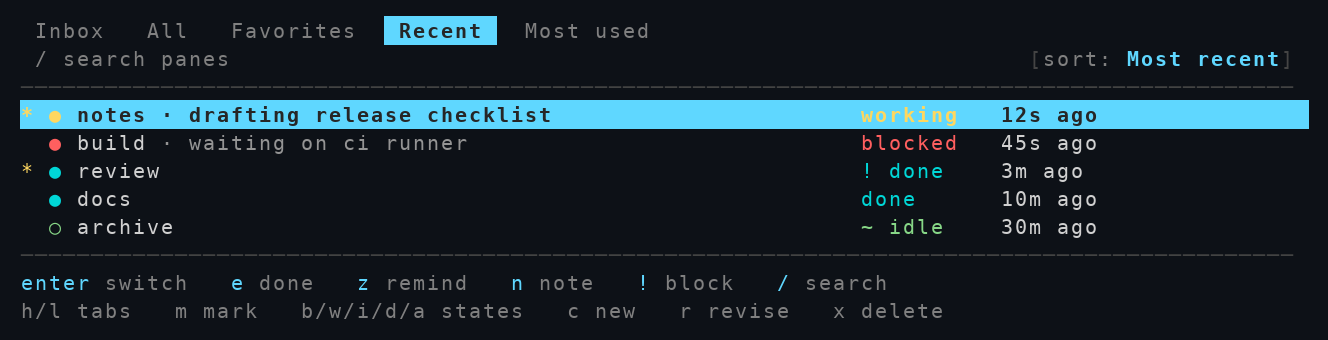
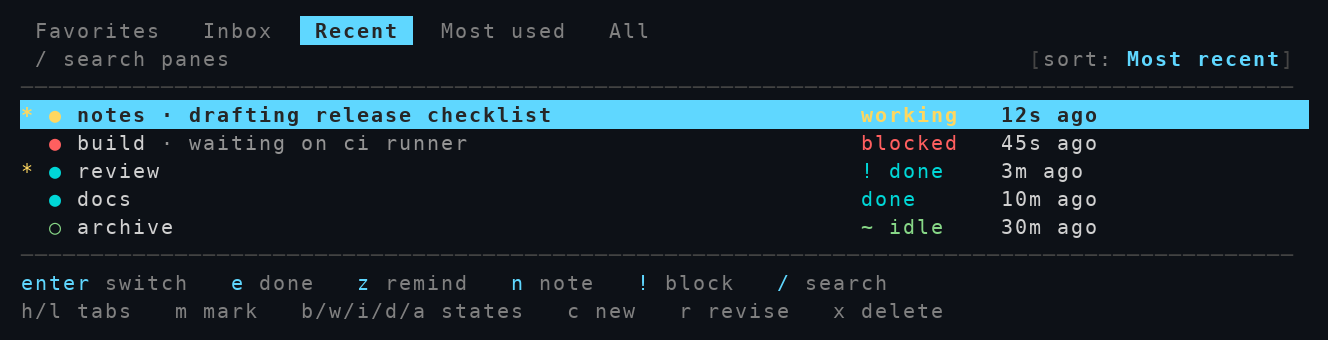
feat: order tabs Favorites, Inbox, Recent, Most used, All

Changed region(s): [[0.0309, 0.0294, 0.494, 0.1471]]

diff --git a/tab_test.go b/tab_test.go
@@ -79,13 +79,10 @@ func TestInboxTriageRemindersNotesAndManualBlock(t *testing.T) {
 			"p-manual": {Visits: 1, Last: now - 400, Done: true, DoneAt: now - 400, DoneState: "idle", ManualBlocked: true},
 		},
 	}
-	for _, name := range viewNames(st) {
-		if name == "Map" {
-			t.Fatal("Map tab should be retired")
-		}
-	}
-	if viewNames(st)[openTab(st)] != "Inbox" {
-		t.Fatalf("default open tab = %q, want Inbox", viewNames(st)[openTab(st)])
+	gotOrder := strings.Join(viewNames(st), ",")
+	wantOrder := "Favorites,Inbox,Recent,Most used,All"
+	if gotOrder != wantOrder {
+		t.Fatalf("tab order = %q, want %q", gotOrder, wantOrder)
 	}
 	snap := &snapshot{
 		Tabs: []tabRec{
@@ -119,7 +116,7 @@ func TestInboxTriageRemindersNotesAndManualBlock(t *testing.T) {
 	}
 
 	// Sticky note is rendered inline and searchable via filterRows; Inbox has no sort pill.
-	plain := stripANSI(renderFrame(inbox, 0, "", "", false, 100, 16, viewNames(st), 0, "both", "", activeSortLabel(st, view{Kind: "inbox"}, sortDefault)))
+	plain := stripANSI(renderFrame(inbox, 0, "", "", false, 100, 16, viewNames(st), 1, "both", "", activeSortLabel(st, view{Kind: "inbox"}, sortDefault)))
 	if strings.Contains(plain, "[sort:") {
 		t.Fatalf("inbox should not show a sort pill:\n%s", plain)
 	}
@@ -153,7 +150,7 @@ func TestInboxTriageRemindersNotesAndManualBlock(t *testing.T) {
 
 	// Snoozed pane renders ~ in All tab, and All shows [sort: Most recent].
 	all := rowsFor(snap, st, view{Kind: "all"}, sortDefault)
-	allPlain := stripANSI(renderFrame(all, 0, "", "", false, 100, 18, viewNames(st), 1, "both", ""))
+	allPlain := stripANSI(renderFrame(all, 0, "", "", false, 100, 18, viewNames(st), 4, "both", ""))
 	if !strings.Contains(allPlain, "~ working") || !strings.Contains(allPlain, "[sort: Most recent]") {
 		t.Fatalf("expected ~ working badge and [sort: Most recent] pill in All:\n%s", allPlain)
 	}
@@ -211,7 +208,7 @@ func TestCustomTabsDoNotPinFavorites(t *testing.T) {
 	if len(all) != 26 {
 		t.Fatalf("all len = %d", len(all))
 	}
-	allFrame := renderFrame(all, 20, "", "", false, 90, 14, viewNames(st), 1, "both", "", activeSortLabel(st, view{Kind: "all"}, sortDefault))
+	allFrame := renderFrame(all, 20, "", "", false, 90, 14, viewNames(st), 4, "both", "", activeSortLabel(st, view{Kind: "all"}, sortDefault))
 	if strings.Count(allFrame, "\n") >= 14 {
 		t.Fatalf("All tab emitted %d newlines for height 14, which scrolls the tab bar off", strings.Count(allFrame, "\n"))
 	}

diff --git a/main.go b/main.go
@@ -251,10 +251,11 @@ func defaultTabs() []customTab {
 }
 
 func views(st *store) []view {
-	out := []view{{Kind: "inbox"}, {Kind: "all"}, {Kind: "favorites"}}
+	out := []view{{Kind: "favorites"}, {Kind: "inbox"}}
 	for i := range st.Tabs {
 		out = append(out, view{Kind: "custom", Idx: i})
 	}
+	out = append(out, view{Kind: "all"})
 	return out
 }
 
@@ -1948,7 +1949,7 @@ func runPicker() int {
 					status = "saved " + name
 				} else {
 					st.Tabs = append(st.Tabs, ct)
-					tab = len(views(st)) - 1
+					tab = len(views(st)) - 2
 					status = "created " + name
 				}
 				_ = saveStore(st)

diff --git a/VISION.md b/VISION.md
@@ -30,7 +30,7 @@ Closed panes are filtered out against the live snapshot on every open, and press
 ## Vim, Tmux, and Superhuman Keyboard Grammar
 
 Browse mode never types into the search box; `/` enters search, `esc` leaves search while keeping the filter, and a second `esc` closes the popup.
-Navigation uses `j` and `k` (or arrows) for rows, `g` and `G` for ends, `ctrl-u` and `ctrl-d` for half-pages, `b/w/i/d/a` for status filters, and `h` and `l` to switch between `Inbox`, `All`, `Favorites`, `Recent`, `Most used`, and custom tabs.
+Navigation uses `j` and `k` (or arrows) for rows, `g` and `G` for ends, `ctrl-u` and `ctrl-d` for half-pages, `b/w/i/d/a` for status filters, and `h` and `l` to switch between `Favorites`, `Inbox`, `Recent`, `Most used`, custom tabs, and `All`.
 Triage actions stay on single keys in browse mode: `e` marks done, `z` sets a reminder, `n` edits the sticky note, `!` toggles manual blocked, and `m` marks a favorite.
 Custom tab management follows tmux and vim conventions: `c` creates a custom tab via a visible multi-field form, `r` revises the current custom tab's criteria, and `x` deletes it after a confirmation dialog that defaults to Cancel.
 Custom sorts use self-contained directional names (`Most recent`, `Oldest`, `Most used`, `Least used`), display the active sort order as a pill in the header on sortable tabs (`All`, `Favorites`, and custom tabs), and refuse invented priority scores or separate ascending/descending rows.

diff --git a/README.md b/README.md
@@ -5,8 +5,8 @@ When you switch across 20 to 30 live agent threads to give quick feedback and un
 
 See [VISION.md](VISION.md) for the project vision and acceptance policy.
 
-Press `prefix+k` and the picker opens as a 95% by 95% popup on `Inbox`.
-`Inbox`, `All`, and `Favorites` are the built-in tabs.
+Press `prefix+k` and the picker opens as a 95% by 95% popup.
+Tabs from left to right are `Favorites`, `Inbox`, `Recent`, `Most used`, and `All`.
 `Recent` and `Most used` start as custom tabs you can delete with `x` (it asks you to confirm), revise with `r`, or create from scratch with `c`.
 
 In `Inbox`, press `e` to mark a thread Done for the current cycle.
@@ -23,7 +23,7 @@ Press `!` to toggle a manual `blocked` override when a thread is waiting on some
 | `j` / `k` / `↑` / `↓` | move one row (`ctrl-n` / `ctrl-p` and arrows also move while searching) |
 | `g` / `G` | jump to the first / last row |
 | `ctrl+u` / `ctrl+d` | half-page up / down (in search or note: `ctrl+u` clears text) |
-| `h` / `l` / `←` / `→` | switch tabs (`Inbox`, `All`, `Favorites`, `Recent`, `Most used`, ...) |
+| `h` / `l` / `←` / `→` | switch tabs (`Favorites`, `Inbox`, `Recent`, `Most used`, `All`) |
 | `enter` | focus the selected pane directly via Herdr socket |
 | `e` | mark the selected thread Done (or move an already-done thread back to `Inbox`) |
 | `z` | set or clear a reminder (`20m`, `1h`, `3h`, `Tomorrow 9am`, `Clear`) |
